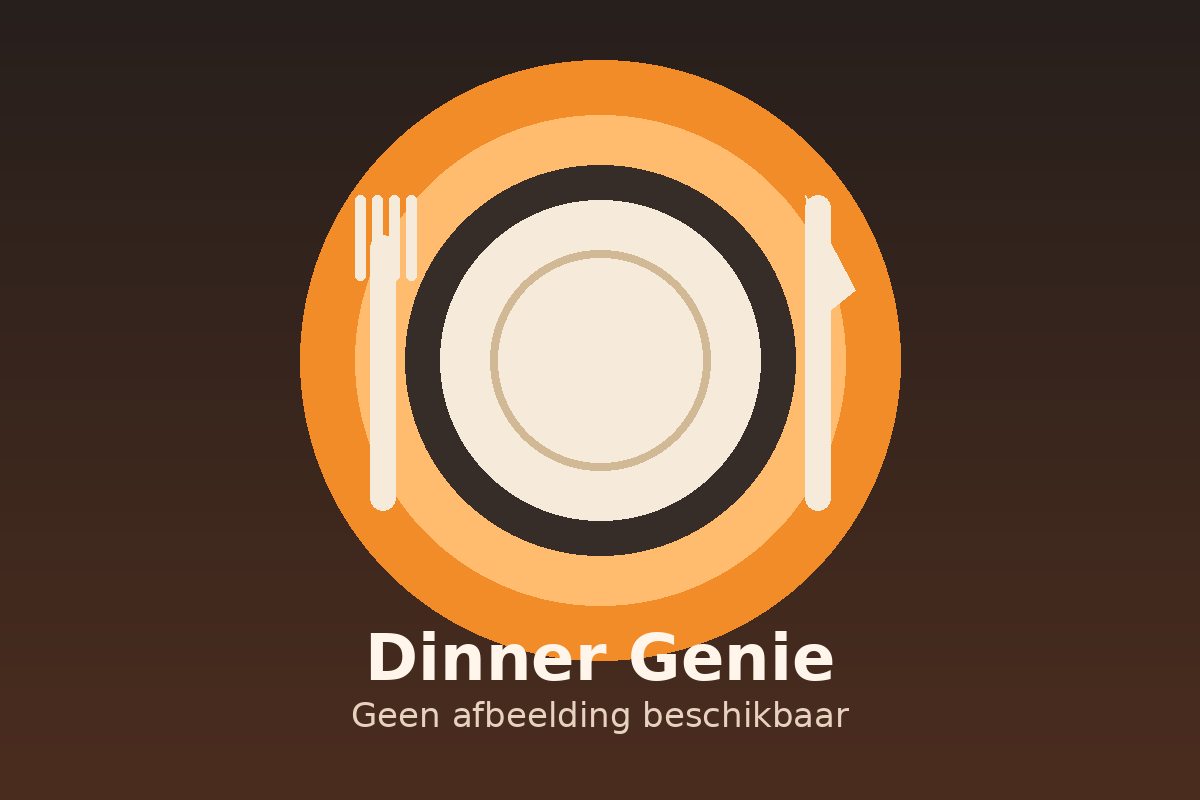
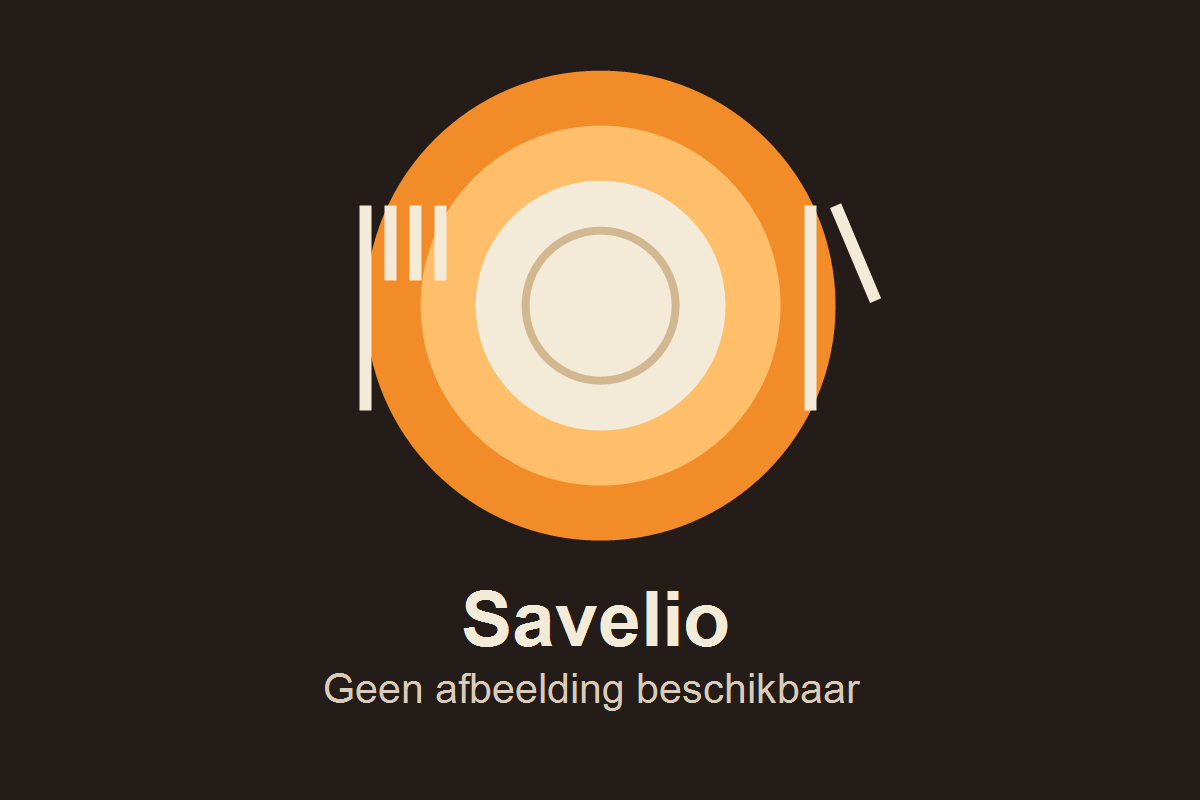
Release v3.0.2

diff --git a/custom_components/dinner_genie/www/dinner-genie-card.js b/custom_components/dinner_genie/www/dinner-genie-card.js
@@ -1,5 +1,5 @@
 
-const DINNER_GENIE_CARD_VERSION = '3.0.1';
+const DINNER_GENIE_CARD_VERSION = '3.0.2';
 const DINNER_GENIE_CARD_TAG = 'dinner-genie-card';
 const DINNER_GENIE_CARD_V2_TAG = 'dinner-genie-card-v2';
 const DINNER_GENIE_CARD_VERSIONED_TAG = 'dinner-genie-card-v239';
@@ -27,7 +27,6 @@ class DinnerGenieCard extends HTMLElement {
       recipes_entity: 'sensor.dinner_genie_recepten',
       debug: false,
       preview: false,
-      show_replace_buttons: false,
       ...config,
     };
     this._selectedRecipe = this._selectedRecipe ?? null;
@@ -74,10 +73,6 @@ class DinnerGenieCard extends HTMLElement {
 
   _dayEntity(day) {
     return this.config[`day_${day}_entity`] || `sensor.dinner_genie_dag_${day}`;
-  }
-
-  _replaceButton(day) {
-    return this.config[`replace_day_${day}_button`] || `button.dinner_genie_vervang_dag_${day}`;
   }
 
   _weekDayCount() {
@@ -285,14 +280,10 @@ class DinnerGenieCard extends HTMLElement {
     const category = this._escape(recipe?.category || '');
     const categoryHtml = category ? `🏷️ ${category}` : '&nbsp;';
     const dayLabel = this._escape(this._dayLabel(recipe, day));
-    const replaceButton = day && this.config.show_replace_buttons
-      ? `<button class="icon-button" data-action="replace" data-day="${day}" title="Vervang ${dayLabel}">↻</button>`
-      : '';
     return `
       <article class="dg-card" style="--accent:${color}">
         <div class="dg-card-header">
           <strong>${dayLabel}</strong>
-          ${replaceButton}
         </div>
         <img src="${this._escape(this._image(recipe))}" alt="" class="recipe-image" loading="lazy">
         <div class="dg-card-body">
@@ -312,16 +303,22 @@ class DinnerGenieCard extends HTMLElement {
 
     const weekday = recipe?.planning_weekday;
     const date = recipe?.planning_date;
-    if (weekday && date) return `${weekday} ${this._formatShortDate(date)}`;
+    if (weekday && date) return `${weekday} ${this._formatDayMonth(date)}`;
     if (weekday) return weekday;
-    if (date) return this._formatShortDate(date);
+    if (date) return this._formatFullDate(date);
     return `Dag ${day}`;
   }
 
-  _formatShortDate(value) {
+  _formatDayMonth(value) {
     const date = new Date(value);
     if (Number.isNaN(date.getTime())) return String(value);
-    return new Intl.DateTimeFormat('nl-NL', { day: 'numeric', month: 'short' }).format(date);
+    return new Intl.DateTimeFormat('nl-NL', { day: 'numeric', month: 'long' }).format(date);
+  }
+
+  _formatFullDate(value) {
+    const date = new Date(value);
+    if (Number.isNaN(date.getTime())) return String(value);
+    return new Intl.DateTimeFormat('nl-NL', { weekday: 'long', day: 'numeric', month: 'long' }).format(date);
   }
 
   _renderWeek() {
@@ -560,13 +557,6 @@ class DinnerGenieCard extends HTMLElement {
         event.preventDefault();
         event.stopPropagation();
         this._callButton(this.config.generate_button);
-      });
-    });
-    root.querySelectorAll('[data-action="replace"]').forEach((button) => {
-      button.addEventListener('click', (event) => {
-        event.stopPropagation();
-        const day = button.getAttribute('data-day');
-        this._callButton(this._replaceButton(day));
       });
     });
     this._bindDetailButtons();

diff --git a/custom_components/dinner_genie/coordinator.py b/custom_components/dinner_genie/coordinator.py
@@ -1,7 +1,7 @@
 from __future__ import annotations
 
 import logging
-from datetime import timedelta
+from datetime import date, timedelta
 from typing import Any
 from uuid import uuid4
 
@@ -50,6 +50,7 @@ class DinnerGenieCoordinator(DataUpdateCoordinator[dict[str, Any]]):
         old = self.data or {}
         week_planning = self._latest_week_menu_payload(week_menus_response)
         day_entries = self._day_entries_from_week_planning(week_planning)
+        self._enrich_day_entries(day_entries, recipes)
         meals = [entry["recipe"] for entry in day_entries if isinstance(entry.get("recipe"), dict)]
         shopping_lines = self._shopping_lines_from_week_planning(week_planning)
         return {
@@ -77,9 +78,6 @@ class DinnerGenieCoordinator(DataUpdateCoordinator[dict[str, Any]]):
         data = dict(self.data or {})
         data["random"] = random_recipe
         self.async_set_updated_data(data)
-
-    async def async_replace_day(self, day_number: int) -> None:
-        raise UpdateFailed("Weekplanning wordt nu beheerd in Savelio. Vernieuw de integratie om wijzigingen op te halen.")
 
     async def async_update_option(self, key: str, value: Any) -> None:
         options = dict(self.entry.options)
@@ -156,10 +154,53 @@ class DinnerGenieCoordinator(DataUpdateCoordinator[dict[str, Any]]):
                 "label": item.get("label") or item.get("title"),
                 "recipe": recipe,
             }
+            entry["weekday"] = entry.get("weekday") or self._weekday_from_date(entry.get("date"))
+            entry["label"] = entry.get("label") or self._date_label(entry.get("date"), entry.get("weekday"))
             self._copy_day_metadata_to_recipe(entry, recipe)
             entries.append(entry)
 
         return entries
+
+    def _enrich_day_entries(self, day_entries: list[dict[str, Any]], recipes_response: dict[str, Any]) -> None:
+        recipes_by_id = self._recipes_by_id(recipes_response)
+        for entry in day_entries:
+            recipe = entry.get("recipe")
+            if not isinstance(recipe, dict):
+                continue
+
+            recipe_id = self._recipe_id(recipe)
+            full_recipe = recipes_by_id.get(recipe_id)
+            if full_recipe:
+                entry["recipe"] = self._merged_recipe(full_recipe, recipe)
+
+            self._copy_day_metadata_to_recipe(entry, entry["recipe"])
+
+    def _recipes_by_id(self, recipes_response: dict[str, Any]) -> dict[str, dict[str, Any]]:
+        recipes = recipes_response.get("recipes") or []
+        result: dict[str, dict[str, Any]] = {}
+        if not isinstance(recipes, list):
+            return result
+
+        for recipe in recipes:
+            if not isinstance(recipe, dict):
+                continue
+            recipe_id = self._recipe_id(recipe)
+            if recipe_id:
+                result[recipe_id] = recipe
+        return result
+
+    @staticmethod
+    def _recipe_id(recipe: dict[str, Any]) -> str:
+        value = recipe.get("id") or recipe.get("recipe_id") or recipe.get("recipeId")
+        return str(value) if value not in (None, "") else ""
+
+    @staticmethod
+    def _merged_recipe(full_recipe: dict[str, Any], planned_recipe: dict[str, Any]) -> dict[str, Any]:
+        merged = dict(full_recipe)
+        for key, value in planned_recipe.items():
+            if value not in (None, "", [], {}):
+                merged[key] = value
+        return merged
 
     def _recipe_from_day_item(self, item: dict[str, Any]) -> dict[str, Any]:
         for key in ("recipe", "meal", "dinner", "dish"):
@@ -167,6 +208,45 @@ class DinnerGenieCoordinator(DataUpdateCoordinator[dict[str, Any]]):
             if isinstance(value, dict):
                 return dict(value)
         return dict(item)
+
+    @staticmethod
+    def _weekday_from_date(value: Any) -> str | None:
+        parsed = DinnerGenieCoordinator._parse_date(value)
+        if not parsed:
+            return None
+        weekdays = ["maandag", "dinsdag", "woensdag", "donderdag", "vrijdag", "zaterdag", "zondag"]
+        return weekdays[parsed.weekday()]
+
+    @staticmethod
+    def _date_label(value: Any, weekday: Any = None) -> str | None:
+        parsed = DinnerGenieCoordinator._parse_date(value)
+        if not parsed:
+            return str(weekday) if weekday else None
+        months = [
+            "januari",
+            "februari",
+            "maart",
+            "april",
+            "mei",
+            "juni",
+            "juli",
+            "augustus",
+            "september",
+            "oktober",
+            "november",
+            "december",
+        ]
+        day_name = str(weekday) if weekday else DinnerGenieCoordinator._weekday_from_date(value)
+        return f"{day_name} {parsed.day} {months[parsed.month - 1]}"
+
+    @staticmethod
+    def _parse_date(value: Any) -> date | None:
+        if not value:
+            return None
+        try:
+            return date.fromisoformat(str(value)[:10])
+        except ValueError:
+            return None
 
     @staticmethod
     def _copy_day_metadata_to_recipe(entry: dict[str, Any], recipe: dict[str, Any]) -> None:

diff --git a/custom_components/dinner_genie/button.py b/custom_components/dinner_genie/button.py
@@ -5,7 +5,7 @@ from homeassistant.config_entries import ConfigEntry
 from homeassistant.core import HomeAssistant
 from homeassistant.helpers.entity_platform import AddEntitiesCallback
 
-from .const import DOMAIN, MAX_DAYS
+from .const import DOMAIN
 
 
 async def async_setup_entry(hass: HomeAssistant, entry: ConfigEntry, async_add_entities: AddEntitiesCallback) -> None:
@@ -14,7 +14,6 @@ async def async_setup_entry(hass: HomeAssistant, entry: ConfigEntry, async_add_e
         DinnerGenieGenerateWeekMenuButton(coordinator),
         DinnerGenieRandomButton(coordinator),
     ]
-    entities.extend(DinnerGenieReplaceDayButton(coordinator, day_number) for day_number in range(1, MAX_DAYS + 1))
     async_add_entities(entities)
 
 
@@ -51,20 +50,3 @@ class DinnerGenieRandomButton(DinnerGenieBaseButton):
 
     async def async_press(self) -> None:
         await self.coordinator.async_choose_random_recipe()
-
-
-class DinnerGenieReplaceDayButton(DinnerGenieBaseButton):
-    _attr_icon = "mdi:refresh"
-
-    def __init__(self, coordinator, day_number: int) -> None:
-        super().__init__(coordinator)
-        self.day_number = day_number
-        self._attr_name = f"Vervang dag {day_number}"
-        self._attr_unique_id = f"{coordinator.entry.entry_id}_replace_day_{day_number}"
-
-    @property
-    def available(self) -> bool:
-        return False
-
-    async def async_press(self) -> None:
-        await self.coordinator.async_replace_day(self.day_number)

diff --git a/CHANGELOG.md b/CHANGELOG.md
@@ -1,3 +1,9 @@
+## 3.0.2
+
+- Verrijkt opgeslagen weekmenu-maaltijden met volledige receptdetails uit `/recipes`, zodat afbeeldingen, bereiding en ingrediënten beschikbaar blijven.
+- Toont daglabels als echte dag met datum, bijvoorbeeld `maandag 13 juli`.
+- Verwijdert de lokale vervang/verversknoppen per dag en vervangt de placeholder-afbeelding door Savelio branding.
+
 ## 3.0.1
 
 - Leest de actuele weekplanning uit `GET /api/groups/{groupId}/week-menus?limit=1` volgens de API-handleiding.

diff --git a/README.md b/README.md
@@ -127,7 +127,7 @@ Type: JavaScript module.
 Als Home Assistant een oude versie blijft laden, voeg tijdelijk een versie-query toe, bijvoorbeeld:
 
 ```text
-/api/dinner_genie/www/dinner-genie-card.js?v=3.0.1
+/api/dinner_genie/www/dinner-genie-card.js?v=3.0.2
 ```
 
 Gebruik voor nieuwe dashboards de v2-kaart. Die omzeilt oude frontend-registraties van eerdere card-versies: